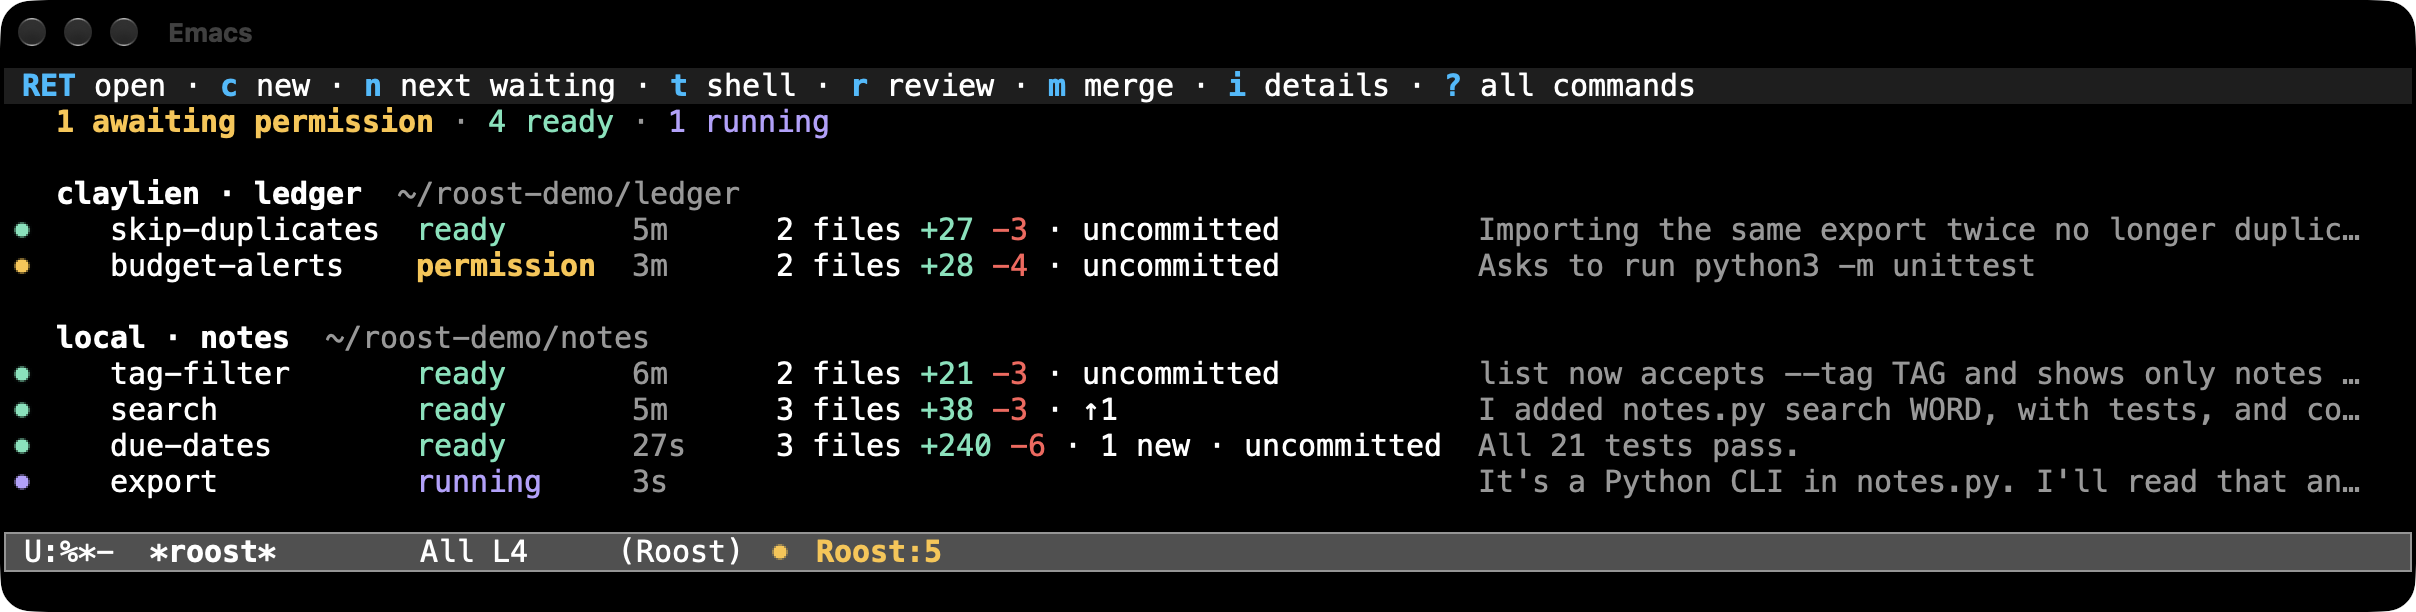
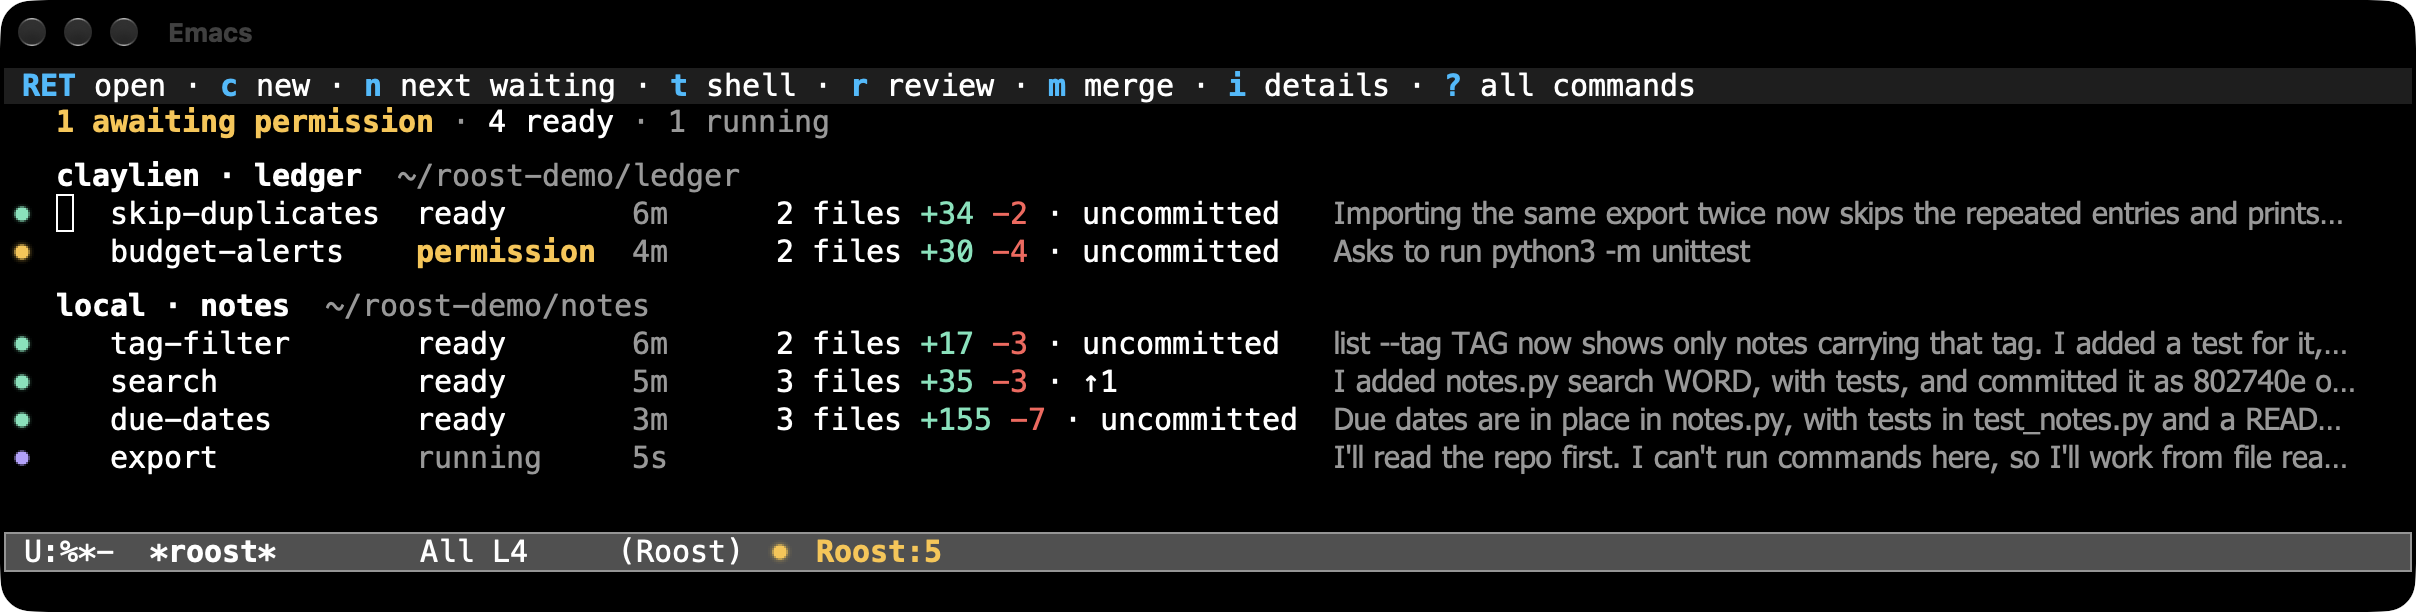
Retake the README's hero and dashboard images in the new look (#19)

diff --git a/README.md b/README.md
@@ -10,7 +10,7 @@ worktree, a branch and a terminal, here or on any SSH host. It tells you which
 agents need you, and you review and merge their work with Magit. If you've
 used Orca or Conductor, it's that idea, inside the Emacs you already use.
 
-![Emacs with three columns: Roost's sidebar listing five agents on two machines, one asking permission; that agent's Claude Code terminal on the SSH host claylien, asking to run its tests; and the task's panel with what it asks, what it changed and what to do next](docs/images/roost-hero.png)
+![Emacs with three columns: Roost's sidebar listing six agents on two machines, one asking permission; that agent's Claude Code terminal on the SSH host claylien, asking to run its tests; and the task's panel with what it asks, its latest reply, what it changed and what to do next](docs/images/roost-hero.png)
 
 *Five Claude Code agents on two machines. The one on `claylien` wants to run
 its tests: its own terminal in the middle, every task at the left, and at the
